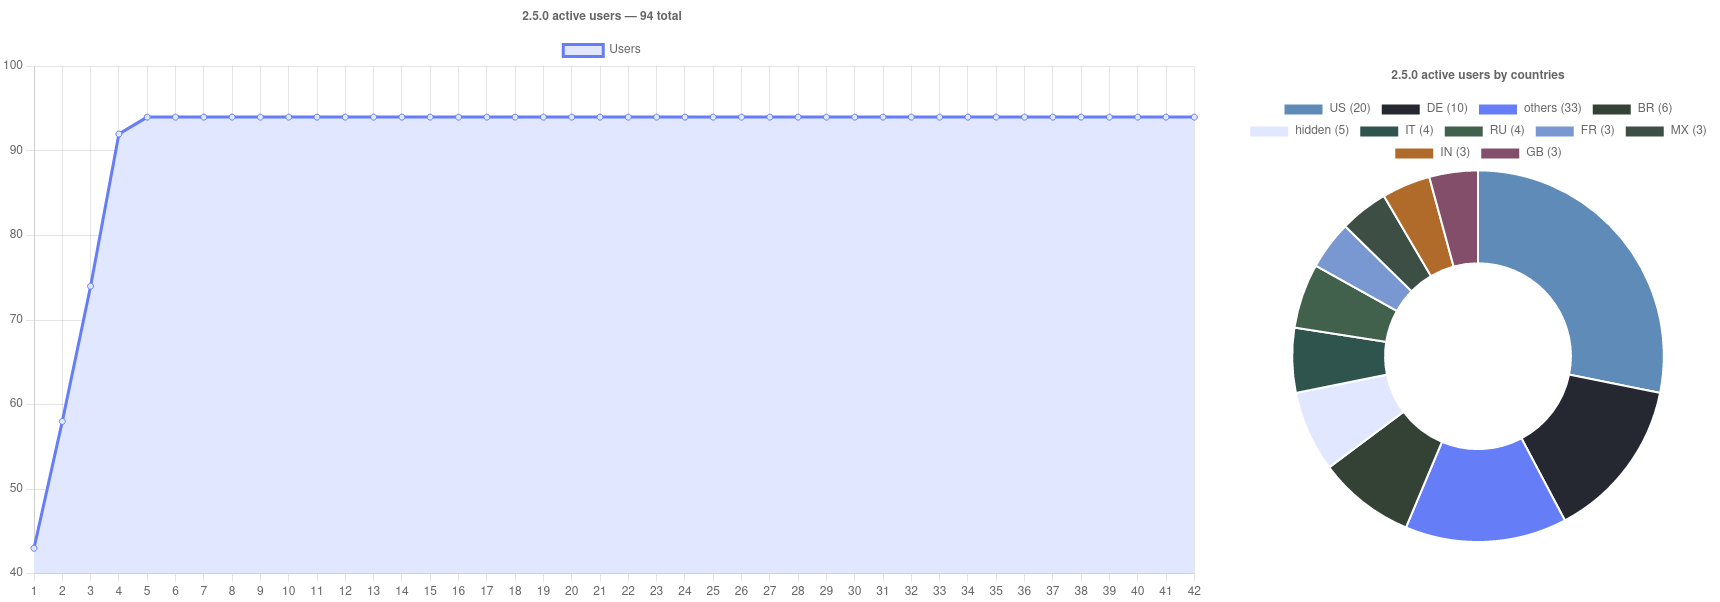
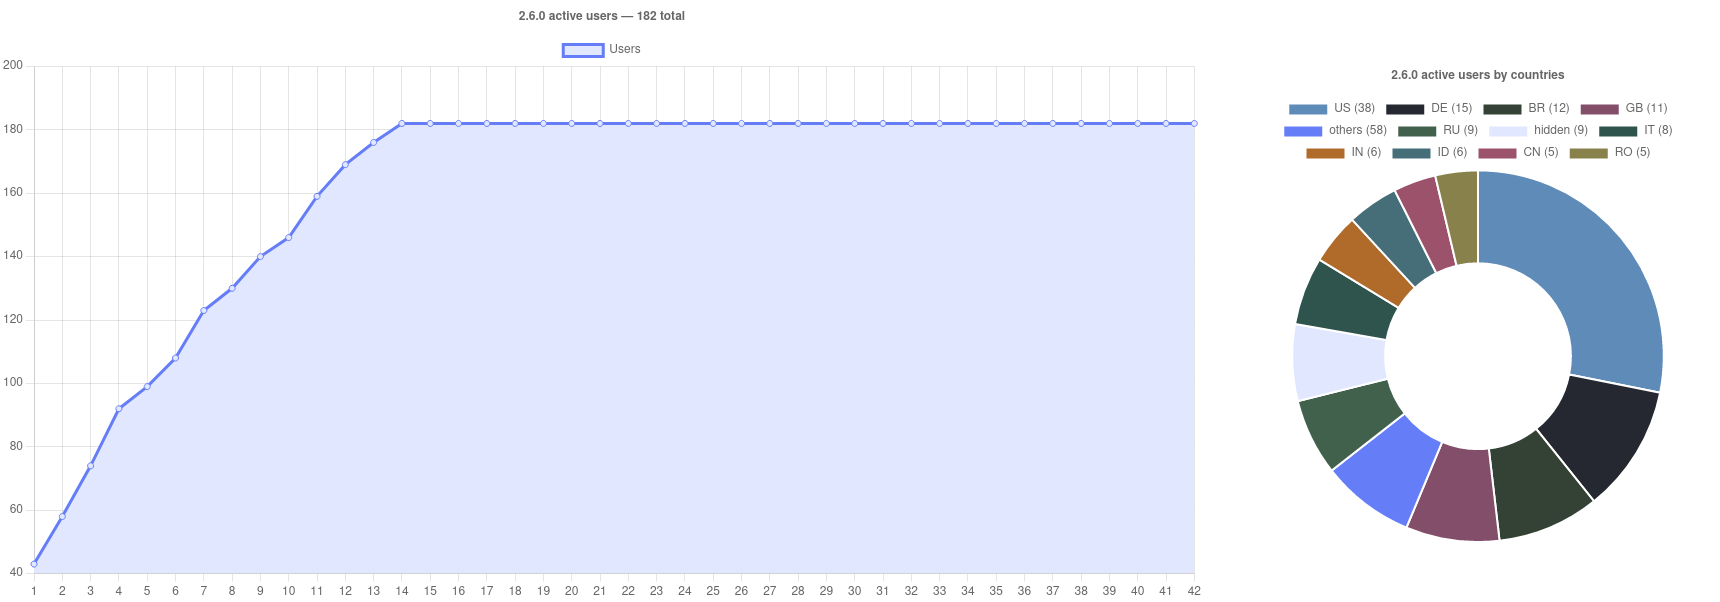
2.3.0 - removed excess component - updated Spanish - updated statistics
From previous commits:
- added Wine-GE-Proton 7-8 (default now) and GE-Proton 7-13
- decreased amount of read/write operations with the config file
- added `fetch()` delays in the DXVK / Runners lists
- added screenshots explorer (!61)
- added `--run-game` option to run the game automatically
- updated notahuman's shaders to v10

diff --git a/src/screenshots.svelte b/src/screenshots.svelte
@@ -9,11 +9,11 @@
     import { Configs, Windows, path, fs } from './empathize';
     import type { Entry } from '@empathize/framework/dist/fs/fs';
 
+    import constants from './ts/Constants';
+
     import Button from './components/Button.svelte';
 
     import LoaderImage from './assets/gifs/loading-marie-please.gif';
-
-    import constants from './ts/Constants';
 
     type Image = {
         src: string,

diff --git a/README.md b/README.md
@@ -74,7 +74,7 @@ field in your `config.yaml` file (settings -> launcher folder). If your system u
 
 | Game version | Launcher version | Patch version |
 | :---: | :---: | :---: |
-| 2.6.0 | 2.2.2 | 2.6.0 stable ✅ |
+| 2.6.0 | 2.3.0 | 2.6.0 stable ✅ |
 
 We have our own [An Anime Game](https://discord.gg/ck37X6UWBp) discord server where you can ask any questions
 
@@ -82,11 +82,11 @@ We have our own [An Anime Game](https://discord.gg/ck37X6UWBp) discord server wh
 
 This is our current usage statistics. You can find older ones [here](repository/pages/STATISTICS.md)
 
-### Our discord server — 434 members
+### Our discord server — 508 members
 
-<img src="repository/pics/stats/2022/mar-apr.png">
+<img src="repository/pics/stats/2022/apr-may.png">
 
-### 2.6.0 launcher users — 94 total
+### 2.6.0 launcher users — 182 total
 
 <img src="repository/pics/stats/2.6.0.png">
 
@@ -202,9 +202,9 @@ This is our current roadmap goals. You can find older ones [here](repository/pag
 * <s>Add analytics window</s> *(e0a09323, released in 2.2.0)*
 * <s>Add Chinese game's version support (due to changes in the Krock's patch)</s> *(75f2ad66, released in 2.2.0)*
 * <s>Add Patch category to the settings menu</s> *(07b32ada, 8a29d4a5, released in 2.2.1)*
-* <s>Implement manual config flushing functionality from the Empathize's API</s> *(4ba169f9)*
-* <s>Screenshots explorer</s> *(!61, 00d2d165)*
-* <s>Add cli argument to load the game automatically</s> (`--run-game`, 850afd97)
+* <s>Implement manual config flushing functionality from the Empathize's API</s> *(4ba169f9, released in 2.3.0)*
+* <s>Screenshots explorer</s> *(!61, 00d2d165, released in 2.3.0)*
+* <s>Add cli argument to load the game automatically</s> (`--run-game`, 850afd97, released in 2.3.0)
 * Game statistics window
 * Dark progress bar design
 * Changelog window

diff --git a/repository/pages/STATISTICS.md b/repository/pages/STATISTICS.md
@@ -10,7 +10,8 @@ Our current statistics you can find in [readme](../../README.md)
 
 | Period | Source | Data |
 | - | - | - |
-| 10 Mar — ? | Discord server | <img src="../pics/stats/2022/mar-apr.png" height="400px"> |
+| 10 Mar — 30 Mar | Discord server | <img src="../pics/stats/2022/mar-apr.png" height="400px"> |
+| 30 Mar — ? | Discord server | <img src="../pics/stats/2022/apr-may.png" height="400px"> |
 
 ## 2.5.0
 
